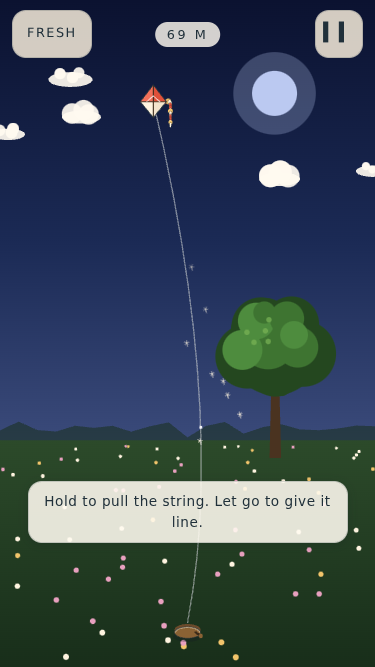
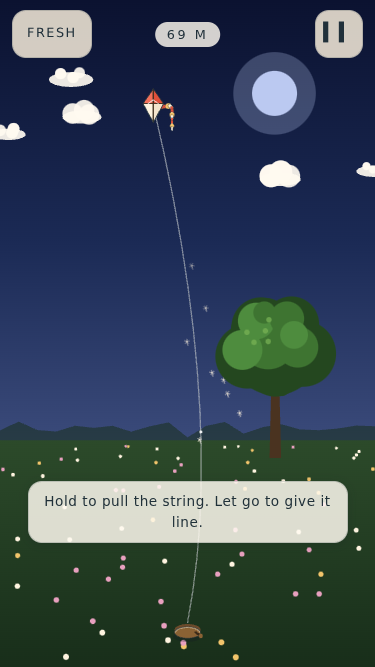
Updraft: all five kites fly as themselves (Director call 53), stamp 20260908a
drawKite draws the flying kite from KITE_SHAPE through a unit space frame and a
KITE_PAINT table (split line, the Box's two cells, bridle anchors); the Dragon's
tail is a finned serpent. The ink gate is a differential now; test/kites.mjs is
new (eight gates). Watched red on every kite as the Diamond and on no kite at all.

Claude-Session: https://claude.ai/code/session_01MzMxmCZuHYbHiFdAM59JNS

diff --git a/satellites/updraft/index.html b/satellites/updraft/index.html
@@ -9,9 +9,9 @@
 <meta name="apple-mobile-web-app-capable" content="yes">
 <meta name="apple-mobile-web-app-status-bar-style" content="black-translucent">
 <meta name="apple-mobile-web-app-title" content="UPDRAFT">
-<link rel="manifest" href="./manifest.webmanifest?v=20260907d">
-<link rel="apple-touch-icon" href="./icon-192.png?v=20260907d">
-<link rel="icon" href="./icon-192.png?v=20260907d">
+<link rel="manifest" href="./manifest.webmanifest?v=20260908a">
+<link rel="apple-touch-icon" href="./icon-192.png?v=20260908a">
+<link rel="icon" href="./icon-192.png?v=20260908a">
 <link rel="canonical" href="https://lucidwinds.com/satellites/updraft/">
 <style>
 /*  UPDRAFT
@@ -159,7 +159,7 @@ html,body{margin:0;padding:0;height:100%;background:#8CC6F0;color:var(--ink);
 #testPanel.on{display:block}
 @media (prefers-reduced-motion:reduce){*{transition-duration:1ms!important}}
 </style>
-<script src="/music-unlocks.js?v=20260907d" defer></script>
+<script src="/music-unlocks.js?v=20260908a" defer></script>
 </head>
 <body>
 <h1 style="position:absolute;width:1px;height:1px;margin:-1px;padding:0;overflow:hidden;clip:rect(0 0 0 0);clip-path:inset(50%);white-space:nowrap;border:0">UPDRAFT</h1>
@@ -1092,7 +1092,8 @@ var VIEW = {
   lineW: 0.02,         /* N per m of line, drawn heavier than nylon so the catenary reads */
   maxSag: 0.08,        /* of L; the first draw at 0.25 swung the line off the screen */
   minSag: 0.03,        /* of L; a line is never drawn dead straight */
-  clouds: [], flowers: [], seeds: [], lastHour: -1, sky: null
+  clouds: [], flowers: [], seeds: [], lastHour: -1, sky: null,
+  hide: ''             /* 'kite', 'tail' or both: the ink hook renders the field without them to count what they paint */
 };
 function $(id) { return document.getElementById(id); }
 function fitCanvas() {
@@ -1320,16 +1321,27 @@ function drawTail(st, ks) {
   g.lineCap = 'round'; g.lineJoin = 'round';
   /* the ribbon has a floor too: at the old kite floor it was three pixels of
      stub, which is the thin list's "a mark with a stub tail" */
-  var wBase = Math.max(4.5, ks.size * 0.26);
+  /* the Dragon's tail IS the kite (KITE_SHAPE.dragon.tail is 'serpent'): the
+     same chain the physics moves, drawn half again as wide, with a fin standing
+     off every other segment so it reads as a serpent and not as a longer ribbon */
+  var serp = (KITE_SHAPE[st.kite.id] || KITE_SHAPE.diamond).tail === 'serpent';
+  var wBase = Math.max(4.5, ks.size * 0.26) * (serp ? 1.5 : 1);
   for (i = 1; i < n; i++) {
     var wdt = wBase * (1 - 0.7 * i / n);
     var mx0 = (xs[i - 1] + xs[i]) / 2, my0 = (ys[i - 1] + ys[i]) / 2;
+    if (serp && i % 2 === 0 && i < n - 1) {
+      var fdx = xs[i] - xs[i - 1], fdy = ys[i] - ys[i - 1], fdl = Math.sqrt(fdx * fdx + fdy * fdy) || 1;
+      var fsd = (i % 4 === 0) ? 1 : -1, fl = wdt * 1.3 + 2;
+      g.fillStyle = '#F2C46B';
+      g.beginPath(); g.moveTo(xs[i - 1], ys[i - 1]); g.lineTo(mx0 - fdy / fdl * fsd * fl, my0 + fdx / fdl * fsd * fl); g.lineTo(xs[i], ys[i]); g.closePath(); g.fill();
+      g.strokeStyle = 'rgba(32,48,58,0.5)'; g.lineWidth = 1; g.stroke();
+    }
     g.strokeStyle = 'rgba(32,48,58,0.35)'; g.lineWidth = wdt + 1.6;
     g.beginPath(); g.moveTo(xs[i - 1], ys[i - 1]); g.lineTo(xs[i], ys[i]); g.stroke();
-    g.strokeStyle = (i % 4 < 2) ? '#E0503A' : '#FFF4E0';
+    g.strokeStyle = (i % 4 < 2) ? '#E0503A' : (serp ? '#F2C46B' : '#FFF4E0');
     g.lineWidth = wdt;
     g.beginPath(); g.moveTo(xs[i - 1], ys[i - 1]); g.lineTo(xs[i], ys[i]); g.stroke();
-    if (i % 4 === 2) { g.fillStyle = '#F2C46B'; g.beginPath(); g.arc(mx0, my0, wdt * 0.55 + 1, 0, TAU); g.fill(); }
+    if (i % 4 === 2 && !serp) { g.fillStyle = '#F2C46B'; g.beginPath(); g.arc(mx0, my0, wdt * 0.55 + 1, 0, TAU); g.fill(); }
   }
   if (st.t - st.crackT < 0.12 && G.motion) {
     g.fillStyle = '#FFFFFF'; g.fillRect(xs[n - 1] - 1, ys[n - 1] - 1, 2, 2);
@@ -1337,47 +1349,104 @@ function drawTail(st, ks) {
     g.beginPath(); g.arc(xs[n - 1], ys[n - 1], 5, 0, TAU); g.stroke();
   }
 }
+/* ⛔ FIVE KITES, FIVE SHAPES IN THE AIR (Director call 53). Until 2026-09-08 this
+   drew the Diamond for every kite, so the Box and the Dragon flew as a Diamond
+   with different numbers behind them, on the one screen the game is played on.
+   The outline is KITE_SHAPE, the same table the cards draw from, so the kite you
+   picked is the kite you see. What this table adds is the PAINT: the split line
+   where the red gives way to cream (unit space, its y at x = -1 and at x = +1, so
+   a slanted cell edge works), the CELLS of the box kite (painted instead of the
+   outline, so its middle is open sky), and where the bridle threads anchor.
+   Lit and shaded halves are still split by the spine, the lit half on the left,
+   the sun being low and to the left in this sky. A kite added to KITES without
+   an entry here paints as the Diamond, the same fallback the cards use. */
+var KITE_PAINT = {
+  diamond: { split: [0.12, 0.12], bridle: [[-0.31, 0.12], [0.31, 0.12]], to: [0, 0.34] },
+  delta: { split: [0, 0], bridle: [[-0.18, -0.35], [0.18, -0.35]], to: [0, 0.3] },
+  box: { cells: [[[-0.5, 0.92], [0.5, 0.68], [0.5, 0], [-0.5, 0.24]], [[-0.5, -0.2], [0.5, -0.44], [0.5, -0.92], [-0.5, -0.68]]],
+    bridle: [[-0.5, 0.92], [-0.5, -0.68]], to: [-0.86, 0.14] },
+  sled: { split: [0.05, 0.05], bridle: [[-0.72, 0.9], [0.72, 0.9]], to: [0, 0.55] },
+  dragon: { split: [0.42, 0.42], bridle: [[-0.5, 0.42], [0.5, 0.42]], to: [0, 0.62] }
+};
+/* unit space to the screen: x across the kite, y up the nose, one unit = ks.size.
+   The flutter is a slight breathing of the width when the line is slack. */
+function kiteFrame(st, ks, h) {
+  var s = ks.size, nx = Math.sin(h), ny = -Math.cos(h);
+  var flutter = G.motion ? 1 + (1 - Math.min(1, st.tN)) * Math.sin(st.t * 37) * 0.06 : 1;
+  return { a: -ny * s * flutter, b: nx * s * flutter, c: nx * s, d: ny * s, x: ks.x, y: ks.y, nx: nx, ny: ny, s: s };
+}
+/* a path in unit space. The transform is pushed only while the points go in:
+   a path is fixed in device space as it is built, so the stroke after the
+   restore is in screen pixels and a spar is the same width at any heading. */
+function kitePath(g, F, poly) {
+  var i;
+  g.save(); g.transform(F.a, F.b, F.c, F.d, F.x, F.y);
+  g.beginPath();
+  for (i = 0; i < poly.length; i++) { if (i) g.lineTo(poly[i][0], poly[i][1]); else g.moveTo(poly[i][0], poly[i][1]); }
+  g.closePath();
+  g.restore();
+}
+function kitePieces(id) {
+  var sh = KITE_SHAPE[id] || KITE_SHAPE.diamond, pt = KITE_PAINT[id] || KITE_PAINT.diamond;
+  return pt.cells ? pt.cells : [sh.poly];
+}
+/* the sail's outline on the screen, for the gate that keeps every kite inside the
+   band the Diamond flew in: every point within ks.size of the centre */
+function kiteOutline(st, ks, h) {
+  var F = kiteFrame(st, ks, h === undefined ? st.heading : h), pcs = kitePieces(st.kite.id), out = [], i, k, p;
+  for (i = 0; i < pcs.length; i++) for (k = 0; k < pcs[i].length; k++) {
+    p = pcs[i][k];
+    out.push([F.x + F.a * p[0] + F.c * p[1], F.y + F.b * p[0] + F.d * p[1]]);
+  }
+  return out;
+}
 function drawKite(st, ks) {
-  var g = CTX, s = ks.size, h = st.heading, lay = 0;
+  var g = CTX, s = ks.size, h = st.heading, lay = 0, id = st.kite.id, i, side, above;
+  var sh = KITE_SHAPE[id] || KITE_SHAPE.diamond, pt = KITE_PAINT[id] || KITE_PAINT.diamond;
   if (st.ended && st.ended !== 'snap') {
     lay = Math.min(1, (st.t - st.endT) / 0.8);
     var hTo = st.ended === 'clean' ? (st.az < 0 ? -1 : 1) * Math.PI / 2 : st.heading + 2.6;
     h = h + (hTo - h) * lay;
     g.save(); g.translate(ks.x, ks.y); g.scale(1, 1 - 0.62 * lay); g.translate(-ks.x, -ks.y);
   }
-  var nx = Math.sin(h), ny = -Math.cos(h);
-  var wob = G.motion ? (1 - Math.min(1, st.tN)) * Math.sin(st.t * 37) * s * 0.06 : 0;
-  var nose = [ks.x + nx * s, ks.y + ny * s], tail = [ks.x - nx * s * 0.95, ks.y - ny * s * 0.95];
-  var left = [ks.x - ny * s * 0.72 + wob, ks.y + nx * s * 0.72], right = [ks.x + ny * s * 0.72 - wob, ks.y - nx * s * 0.72];
-  /* ⛔ A KITE IS A FRAME WITH CLOTH ON IT, and this was two flat triangles. Four
-     panels split by the spine and the spar, the windward pair lit and the
-     leeward pair in shade, then the spars themselves drawn ON the cloth, then
-     the bridle. It costs nothing and it is the difference between a diamond and
-     a kite at the distance the game is actually played at. */
-  var midL = [(ks.x + left[0]) / 2, (ks.y + left[1]) / 2];
-  var midR = [(ks.x + right[0]) / 2, (ks.y + right[1]) / 2];
-  function panel(a, b, c, col) {
-    g.fillStyle = col;
-    g.beginPath(); g.moveTo(a[0], a[1]); g.lineTo(b[0], b[1]); g.lineTo(c[0], c[1]); g.closePath(); g.fill();
+  var F = kiteFrame(st, ks, h);
+  /* ⛔ A KITE IS A FRAME WITH CLOTH ON IT. Panels split by the spine and by the
+     paint's split line, the windward pair lit and the leeward pair in shade,
+     then the spars drawn ON the cloth, then the hem, then the bridle. */
+  var lit = F.nx * 0.4 - F.ny * 0.9 > 0;
+  var RED = lit ? ['#F2705A', '#E0503A'] : ['#C8402D', '#B03726'];
+  var CREAM = lit ? ['#FFF4E0', '#F4E4CC'] : ['#E4D4BC', '#CFBEA6'];
+  var pieces = pt.cells
+    ? [{ poly: pt.cells[0], top: RED, bot: RED, split: [-9, -9] }, { poly: pt.cells[1], top: CREAM, bot: CREAM, split: [-9, -9] }]
+    : [{ poly: sh.poly, top: RED, bot: CREAM, split: pt.split }];
+  for (i = 0; i < pieces.length; i++) {
+    var pc = pieces[i], y0 = pc.split[0], y1 = pc.split[1], ym = (y0 + y1) / 2;
+    for (side = -1; side <= 1; side += 2) for (above = 0; above < 2; above++) {
+      var xe = side * 3, yEdge = y0 + (y1 - y0) * (xe + 1) / 2, far = above ? 6 : -6;
+      g.save();
+      kitePath(g, F, pc.poly); g.clip();
+      kitePath(g, F, [[0, ym], [xe, yEdge], [xe, far], [0, far]]);
+      g.fillStyle = (above ? pc.top : pc.bot)[side < 0 ? 0 : 1];
+      g.fill();
+      g.restore();
+    }
   }
-  var lit = nx * 0.4 - ny * 0.9 > 0;
-  panel(nose, right, [ks.x, ks.y], lit ? '#F2705A' : '#C8402D');
-  panel(nose, left, [ks.x, ks.y], lit ? '#E0503A' : '#B03726');
-  panel(tail, right, [ks.x, ks.y], lit ? '#FFF4E0' : '#E4D4BC');
-  panel(tail, left, [ks.x, ks.y], lit ? '#F4E4CC' : '#CFBEA6');
-  /* the spars, on the cloth, and the cross where they meet */
-  g.strokeStyle = 'rgba(58,42,24,0.85)'; g.lineWidth = Math.max(1, s * 0.075); g.lineCap = 'round';
-  g.beginPath(); g.moveTo(nose[0], nose[1]); g.lineTo(tail[0], tail[1]); g.stroke();
-  g.lineWidth = Math.max(1, s * 0.06);
-  g.beginPath(); g.moveTo(left[0], left[1]); g.lineTo(right[0], right[1]); g.stroke();
-  /* the hem */
-  g.strokeStyle = 'rgba(32,48,58,0.8)'; g.lineWidth = Math.max(1, s * 0.06);
-  g.beginPath(); g.moveTo(nose[0], nose[1]); g.lineTo(right[0], right[1]); g.lineTo(tail[0], tail[1]); g.lineTo(left[0], left[1]); g.closePath(); g.stroke();
-  /* the bridle: two short threads off the spine to a point in front of the sail */
-  var bx = ks.x + nx * s * 0.34, by = ks.y + ny * s * 0.34;
+  /* the spars, on the cloth */
+  g.strokeStyle = 'rgba(58,42,24,0.85)'; g.lineCap = 'round';
+  for (i = 0; i < sh.spars.length; i++) {
+    g.lineWidth = Math.max(1, s * (i === 0 ? 0.075 : 0.06));
+    g.save(); g.transform(F.a, F.b, F.c, F.d, F.x, F.y);
+    g.beginPath(); g.moveTo(sh.spars[i][0][0], sh.spars[i][0][1]); g.lineTo(sh.spars[i][1][0], sh.spars[i][1][1]);
+    g.restore(); g.stroke();
+  }
+  /* the hem, round every piece of cloth */
+  g.strokeStyle = 'rgba(32,48,58,0.8)'; g.lineWidth = Math.max(1, s * 0.06); g.lineJoin = 'round';
+  for (i = 0; i < pieces.length; i++) { kitePath(g, F, pieces[i].poly); g.stroke(); }
+  /* the bridle: two threads from their anchors to a point in front of the sail */
   g.strokeStyle = 'rgba(255,255,255,0.7)'; g.lineWidth = 1;
-  g.beginPath();
-  g.moveTo(midL[0], midL[1]); g.lineTo(bx, by); g.lineTo(midR[0], midR[1]); g.stroke();
+  g.save(); g.transform(F.a, F.b, F.c, F.d, F.x, F.y);
+  g.beginPath(); g.moveTo(pt.bridle[0][0], pt.bridle[0][1]); g.lineTo(pt.to[0], pt.to[1]); g.lineTo(pt.bridle[1][0], pt.bridle[1][1]);
+  g.restore(); g.stroke();
   g.lineCap = 'butt';
   if (lay) g.restore();
 }
@@ -1387,8 +1456,8 @@ function render() {
   if (!st) return;
   var ks = kiteScreen(st);
   drawLine(st, ks);
-  drawTail(st, ks);
-  drawKite(st, ks);
+  if (VIEW.hide.indexOf('tail') < 0) drawTail(st, ks);
+  if (VIEW.hide.indexOf('kite') < 0) drawKite(st, ks);
   if (st.strain && G.motion) {
     CTX.strokeStyle = 'rgba(224,80,58,' + (0.25 + 0.2 * Math.sin(st.t * 50)) + ')'; CTX.lineWidth = 6;
     CTX.strokeRect(3, 3, W - 6, H - 6);
@@ -1799,7 +1868,7 @@ function shareDaily(t) {
   fallback();
 }
 
-var STAMP = '20260907d';
+var STAMP = '20260908a';
 function showScreen(name) {
   var ids = { title: 'scrTitle', how: 'scrHow', pause: 'scrPause', mood: 'scrMood', kites: 'scrKites', journal: 'scrJournal', end: 'scrEnd' }, k;
   for (k in ids) $(ids[k]).classList.toggle('on', k === name);
@@ -2094,6 +2163,7 @@ window.UPDRAFT_DEV = {
     var s = snapshot(st);
     s.hold = st.hold; s.lean = st.lean; s.hRate = st.hRate; s.tN = st.tN; s.strain = st.strain; s.launched = st.launched; s.reel = st.reelSpeed > 0;
     s.events = st.events.length; s.maxAlt = st.maxAlt; s.snagged = st.snagged; s.windBase = st.wind.base; s.mood = st.mood; s.seed = st.seed; s.endT = st.endT;
+    s.kite = st.kite.id;
     return s;
   },
   kiteScreen: function () { return G.st ? kiteScreen(G.st) : null; },
@@ -2101,20 +2171,57 @@ window.UPDRAFT_DEV = {
      canvas. A size number can be right while the drawing is a mark, so the gate
      that guards the thin list's "a mark with a stub tail" counts pixels. Reds
      are the sail and the ribbon; the box is the kite's own neighbourhood. */
+  /* ⛔ A DIFFERENTIAL, since 2026-09-08. The first version counted red and pale
+     pixels in the kite's box, and a cloud is pale, so a kite drawn as nothing in
+     front of a cloud could have passed. This renders the same frame three times,
+     without the kite and the tail, with the tail alone, and whole, and counts
+     the pixels each one changed. Nothing is a guess about colour. */
   kiteInk: function () {
     if (!G.st) return null;
     var ks = kiteScreen(G.st), pad = Math.round(ks.size * 3.2);
     var x0 = Math.max(0, Math.round((ks.x - pad) * DPR)), y0 = Math.max(0, Math.round((ks.y - pad) * DPR));
     var x1 = Math.min(CV.width, Math.round((ks.x + pad) * DPR)), y1 = Math.min(CV.height, Math.round((ks.y + pad) * DPR));
     if (x1 <= x0 || y1 <= y0) return null;
-    var d = CTX.getImageData(x0, y0, x1 - x0, y1 - y0).data, i, red = 0, pale = 0;
-    for (i = 0; i < d.length; i += 4) {
-      var R = d[i], Gc = d[i + 1], B = d[i + 2];
-      if (R > 120 && R > Gc + 40 && R > B + 40) red++;
-      else if (R > 200 && Gc > 190 && B > 160) pale++;
+    function grab() { return CTX.getImageData(x0, y0, x1 - x0, y1 - y0).data; }
+    function differs(a, b, i) { return Math.abs(a[i] - b[i]) > 24 || Math.abs(a[i + 1] - b[i + 1]) > 24 || Math.abs(a[i + 2] - b[i + 2]) > 24; }
+    VIEW.hide = 'kite tail'; render(); var bare = grab();
+    VIEW.hide = 'kite'; render(); var tailOnly = grab();
+    VIEW.hide = ''; render(); var full = grab();
+    var i, ink = 0, sail = 0, tail = 0;
+    for (i = 0; i < full.length; i += 4) {
+      if (differs(full, bare, i)) ink++;
+      if (differs(full, tailOnly, i)) sail++;
+      if (differs(tailOnly, bare, i)) tail++;
     }
-    return { red: Math.round(red / (DPR * DPR)), pale: Math.round(pale / (DPR * DPR)),
-      size: ks.size, W: W, L: ks.L };
+    var k = DPR * DPR;
+    return { ink: Math.round(ink / k), sail: Math.round(sail / k), tail: Math.round(tail / k), size: ks.size, W: W, L: ks.L };
+  },
+  /* one kite, drawn by the SAME drawKite the flight uses, in a fixed pose on an
+     offscreen canvas: its ink, a signature of the picture, and the box its sail
+     fills. The gate for call 53 reads this for all five: every one has ink, no
+     two are the same picture, and the sail stays inside the Diamond's band. */
+  kitePicture: function (id) {
+    var off = document.createElement('canvas'), n = 160, keep = CTX, i;
+    off.width = n; off.height = n;
+    var st = { kite: kiteById(id), heading: 0.35, t: 0, tN: 0.5, ended: null, endT: 0, az: 0 };
+    var ks = { x: n / 2, y: n / 2, size: 40, L: 20 };
+    CTX = off.getContext('2d');
+    try { drawKite(st, ks); } finally { CTX = keep; }
+    var d = off.getContext('2d').getImageData(0, 0, n, n).data, ink = 0, sig = 0;
+    for (i = 3; i < d.length; i += 4) {
+      if (d[i] > 16) { ink++; sig = (sig * 31 + ((i >> 2) ^ d[i - 3] ^ (d[i - 2] << 8) ^ (d[i - 1] << 16))) % 1000003; }
+    }
+    /* the outline measured in the KITE'S OWN frame, along the nose and across
+       it, in units of the size: the Diamond flies inside the unit box (nose at
+       one size, sides at 0.62), and the band every kite keeps is that box */
+    var pts = kiteOutline(st, ks, st.heading), F = kiteFrame(st, ks, st.heading), ux = F.nx, uy = F.ny, k;
+    var far = 0, lo = 9, hi = -9, lo2 = 9, hi2 = -9;
+    for (k = 0; k < pts.length; k++) {
+      var al = ((pts[k][0] - ks.x) * ux + (pts[k][1] - ks.y) * uy) / ks.size, ac = ((pts[k][0] - ks.x) * -uy + (pts[k][1] - ks.y) * ux) / ks.size;
+      far = Math.max(far, Math.abs(al), Math.abs(ac));
+      if (al < lo) lo = al; if (al > hi) hi = al; if (ac < lo2) lo2 = ac; if (ac > hi2) hi2 = ac;
+    }
+    return { id: id, ink: ink, sig: sig, far: far, tall: hi - lo, wide: hi2 - lo2, size: ks.size };
   },
   audio: function () { return { bed: AUDIO.state.bed, whine: AUDIO.state.whine, cut: AUDIO.state.cut }; },
   levelsFor: function (st) { return AUDIO.levelsFor(st); },

diff --git a/satellites/updraft/tools/check.js b/satellites/updraft/tools/check.js
@@ -37,6 +37,7 @@ const BROWSER_GATES = [
   { name: 'audio', cmd: ['test/audio.mjs'], need: 'AUDIO OK' },
   { name: 'fly', cmd: ['test/fly.mjs'], need: 'FLY OK' },
   { name: 'layout', cmd: ['test/layout.mjs'], need: 'LAYOUT OK' },
+  { name: 'kites', cmd: ['test/kites.mjs'], need: 'KITES OK' },
   { name: 'weather', cmd: ['test/weather.mjs'], need: 'WEATHER OK' },
   { name: 'daily', cmd: ['test/daily.mjs'], need: 'DAILY OK' }
 ].filter(g => existsSync(join(ROOT, g.cmd[0])));

diff --git a/satellites/updraft/sw.js b/satellites/updraft/sw.js
@@ -12,7 +12,7 @@
    Bump SHELL_VERSION on every deploy, AND the ?v= on the registration in
    index.html in lockstep (they are both the STAMP, and tools/lint.mjs asserts it) — this host edge-pins bare sw.js URLs for 7 days. */
 
-const SHELL_VERSION = "updraft-shell-20260907d";
+const SHELL_VERSION = "updraft-shell-20260908a";
 const SFX_CACHE     = "updraft-unused-v1"; // no recorded audio: every sound is synthesised
 const NAV_TIMEOUT_MS = 8000;
 

diff --git a/plans/updraft/HANDOFF-UPDRAFT.md b/plans/updraft/HANDOFF-UPDRAFT.md
@@ -12,6 +12,40 @@ on branch `add-sproing-jumper` tonight.
 
 ## SESSION STATE (the builder updates this at the end of every session; the morning reader starts here)
 
+- 2026-09-08 (UTC), Fable's builder: **DONE, Director call 53: ALL FIVE KITES FLY AS THEMSELVES.** Stamp
+  `20260908a` (five places in index.html, sw.js). `node tools/check.js` ALL GATES PASSED, eight of eight
+  (lint, test 76, audio, fly, layout, **kites** new, weather, daily), first run, no rerun needed.
+  `drawKite` now draws the flying kite from `KITE_SHAPE`, the same table the cards use, through a
+  unit space frame (x across, y up the nose, one unit = the size), with a `KITE_PAINT` table for what the
+  outline does not say: the red to cream split line, the Box's two CELLS (painted instead of the outline,
+  so its middle is open sky), and the bridle anchors. Lit and shaded halves still split on the spine,
+  the lit half on the left; the spars, the hem and the bridle are drawn as before; the size and the
+  lighting are the Diamond's. The Dragon's tail is the same chain the physics moves, drawn half again
+  as wide with a gold fin off every other segment: the tail IS the kite.
+  **The gates were rewritten to the law.** The old ink count in `test/layout.mjs` counted red and pale
+  pixels in a box, and a cloud is pale, so it could have passed a kite drawn as nothing in front of one:
+  `UPDRAFT_DEV.kiteInk()` is a DIFFERENTIAL now (the frame rendered without the kite and tail, with the
+  tail, and whole; the count is what changed), and the assertions are: the kite and tail paint the floor,
+  the sail alone is a quarter of it, the ribbon alone is a quarter of it. New `test/kites.mjs`: a real tap
+  on each card puts that kite in hand; aloft each paints a sail and a ribbon; `UPDRAFT_DEV.kitePicture(id)`
+  draws each through the flight's own `drawKite` in one fixed pose and no two are the same picture; every
+  outline stays inside the Diamond's band (the unit box in the kite's own frame, 1.05 sizes) and is not a
+  dot. **Watched red:** mutation A, every kite drawn as the Diamond: two assertions red (all five
+  signatures 120220). Mutation B, drawKite draws nothing: kites 11 red, layout 5 red at all three sizes.
+  Both reverted, both gates green after.
+  ⛔ **Two of my own laws were wrong before they were right:** the band was measured on screen axes, and
+  the Delta's wing tips sit inside the unit BOX not the unit circle (1.14 on screen at a heading of
+  0.35); and the Dragon's head is 0.95 tall by design, so "not a dot" is 0.8, not 1.5. And a Fresh kite on
+  the grass lifts off on a gust by itself with no thumb (the model, not new), so a card pick, which only
+  swaps the kite in hand on the grass, has to wait for the grass.
+  **Shots opened** (`docs/shots/p5-kites.png` five at 412x915, `p5-dragon.png`, `p4-high-412.png` reshot):
+  the five are five; at 16 m the Delta and the Sled read as an arrowhead and a shield at phone distance
+  (the size floor is the Diamond's by the call); the Dragon's head is nearly lost on the night sky; the
+  dandelion seeds rise from the sunny patch at 01:24 UTC (Change 3). The first boot hint sits on the
+  grass in panel one (camera artefact).
+  **Not done:** the Delta and the Box cards say tail none and both still fly the ribbon, because the
+  ribbon is the physics (the crack, the tip) and the brief said keep the tail; the size floor is unchanged.
+
 - 2026-09-08 00:40 UTC, Fable: **THE SORT of his Sep 07 notes** (verified by one read-only agent per game and a
   second reader who tried to refute every fault; nothing built yet, he sees this first). Taste and new
   work are in `docs/DIRECTOR-CALLS-SEP06.md` section I with a recommendation and a cost each.

diff --git a/satellites/updraft/docs/BUILD-NOTES.md b/satellites/updraft/docs/BUILD-NOTES.md
@@ -3,7 +3,7 @@
 Built 2026-09-06 from `plans/updraft/HANDOFF-UPDRAFT.md`: P0 and P1 in a first session of about 110 minutes, the P2 screens (mood, journal, kites with unlocks) in a second of 40. Not built: the landing flourish and all of P3 (Real Wind, the Daily Wind, a haptics toggle, a settings screen).
 
 - `node sim.js --test` runs 71 assertions over the SIM layers read out of index.html; `--fly=<mood>,<script>` prints a flight (scripts: launch, hold, loop, eight, dive, park, glide); `--over=KEY=val` runs against an overridden CONFIG number.
-- `flock -w 1800 /tmp/sws-gate.lock node tools/check.js` is the gate table: lint, test, fly, layout.
+- `flock -w 1800 /tmp/sws-gate.lock node tools/check.js` is the gate table: lint, test, audio, fly, layout, kites, weather, daily.
 - `tools/shots.mjs` shoots docs/shots; `tools/thumb.mjs` the tile; `tools/icons.mjs` the icons.
 - The audio is synthesised (a filtered noise bed and a strain whine) and starts on the first hold. Nothing is fetched from the network; Real Wind is not built.
 - Screens: title, how, pause, mood (`#scrMood`, three cards), kites (`#scrKites`, five cards, `kiteUnlocked` against CONFIG.UNLOCK and the journal), journal (`#scrJournal`), end. `showScreen(name)` is the only door; `G.moodFrom` and `G.journalFrom` remember where a screen was opened from.

diff --git a/satellites/updraft/docs/ART_ASSETS.md b/satellites/updraft/docs/ART_ASSETS.md
@@ -4,4 +4,4 @@ Everything on screen is drawn by code tonight: sky by the clock, cumulus from se
 
 The four sheets in `plans/updraft/ART-PACK-UPDRAFT.md` (field, Mabel, the five kites, an icon mark) are not yet delivered and the game does not wait on them. When they land: `art/field.jpg` 900x1600 q80 replaces the drawn grass and hills, `art/mabel.png` 800x800 replaces the drawn oak, `art/kite-<id>.png` 256x256 for the picker cards (P2), and the icon mark replaces `tools/icons.mjs` output if it is better.
 
-The kite picker (`#scrKites`, P2) draws no silhouette yet: each card is the kite's name and one line. When `art/kite-<id>.png` lands it goes at the left of the card at 48 px, keyed on white.
+The kite picker (`#scrKites`) draws each kite's silhouette from `KITE_SHAPE` on a 44 px canvas beside the name (20260907d), and since 20260908a the flying kite is drawn from the same table through `KITE_PAINT`. When `art/kite-<id>.png` lands it replaces the card mark at the left of the card at 48 px, keyed on white; the flying kite stays code drawn.
